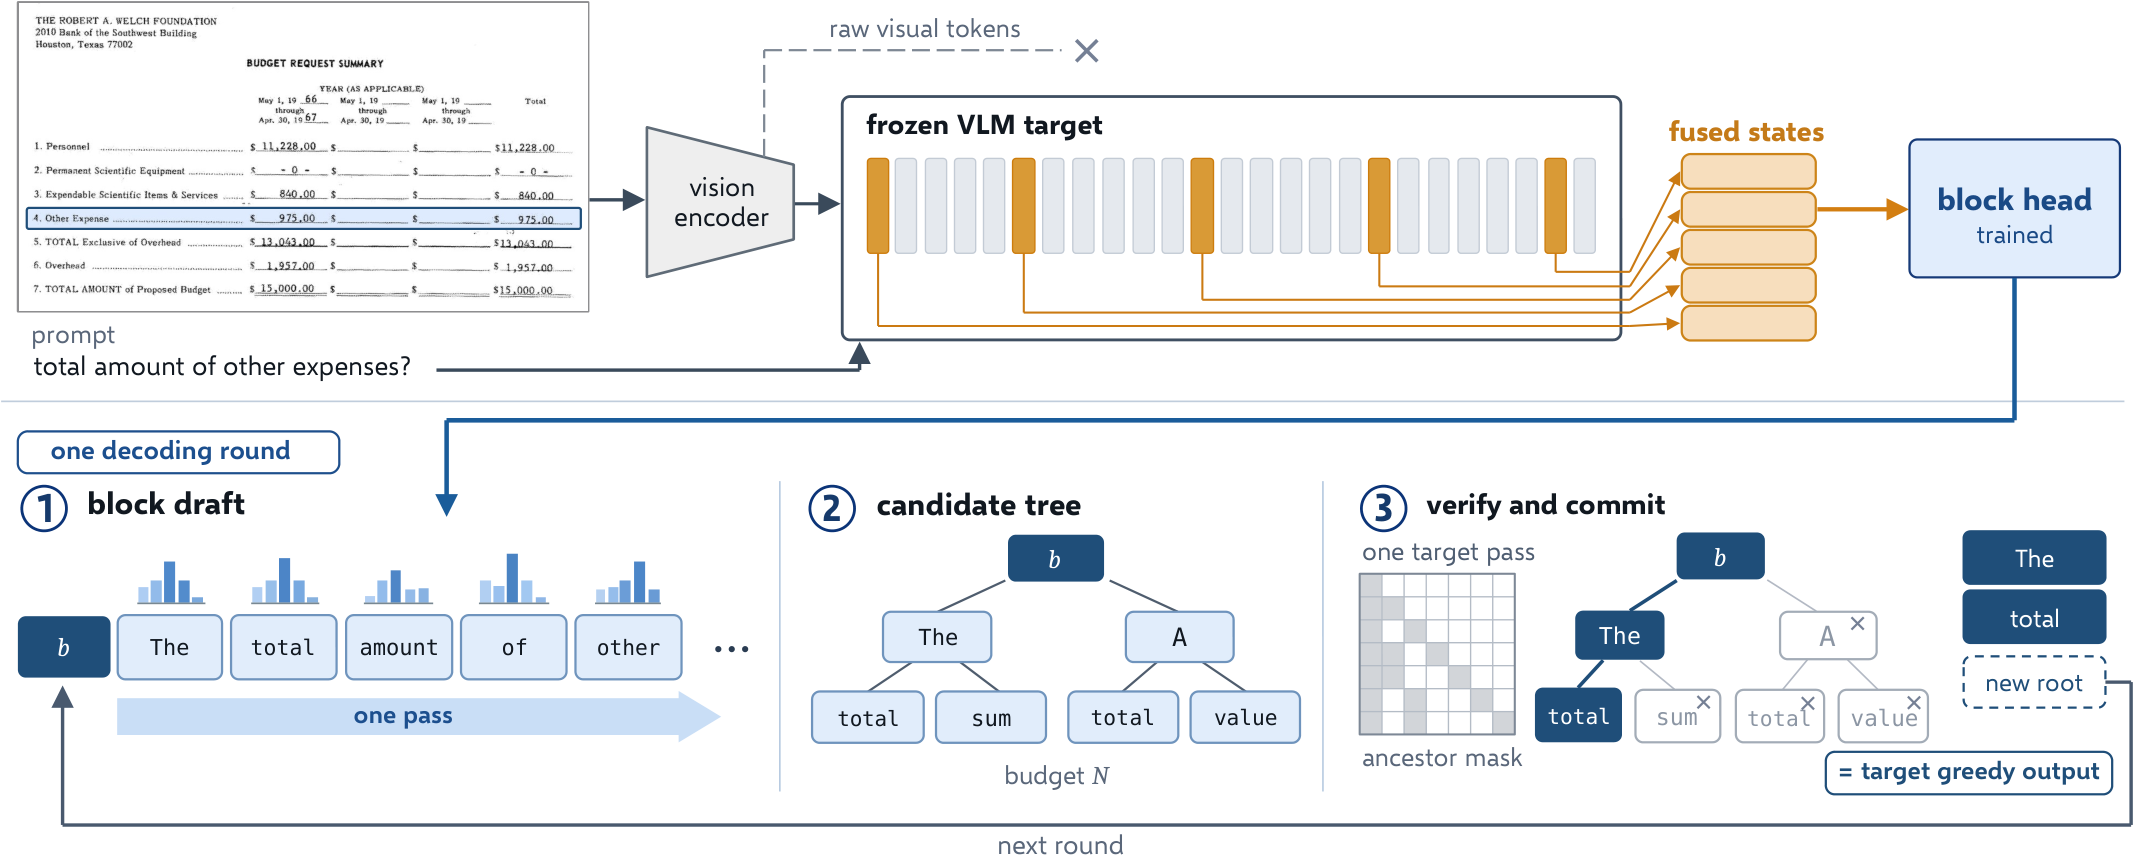
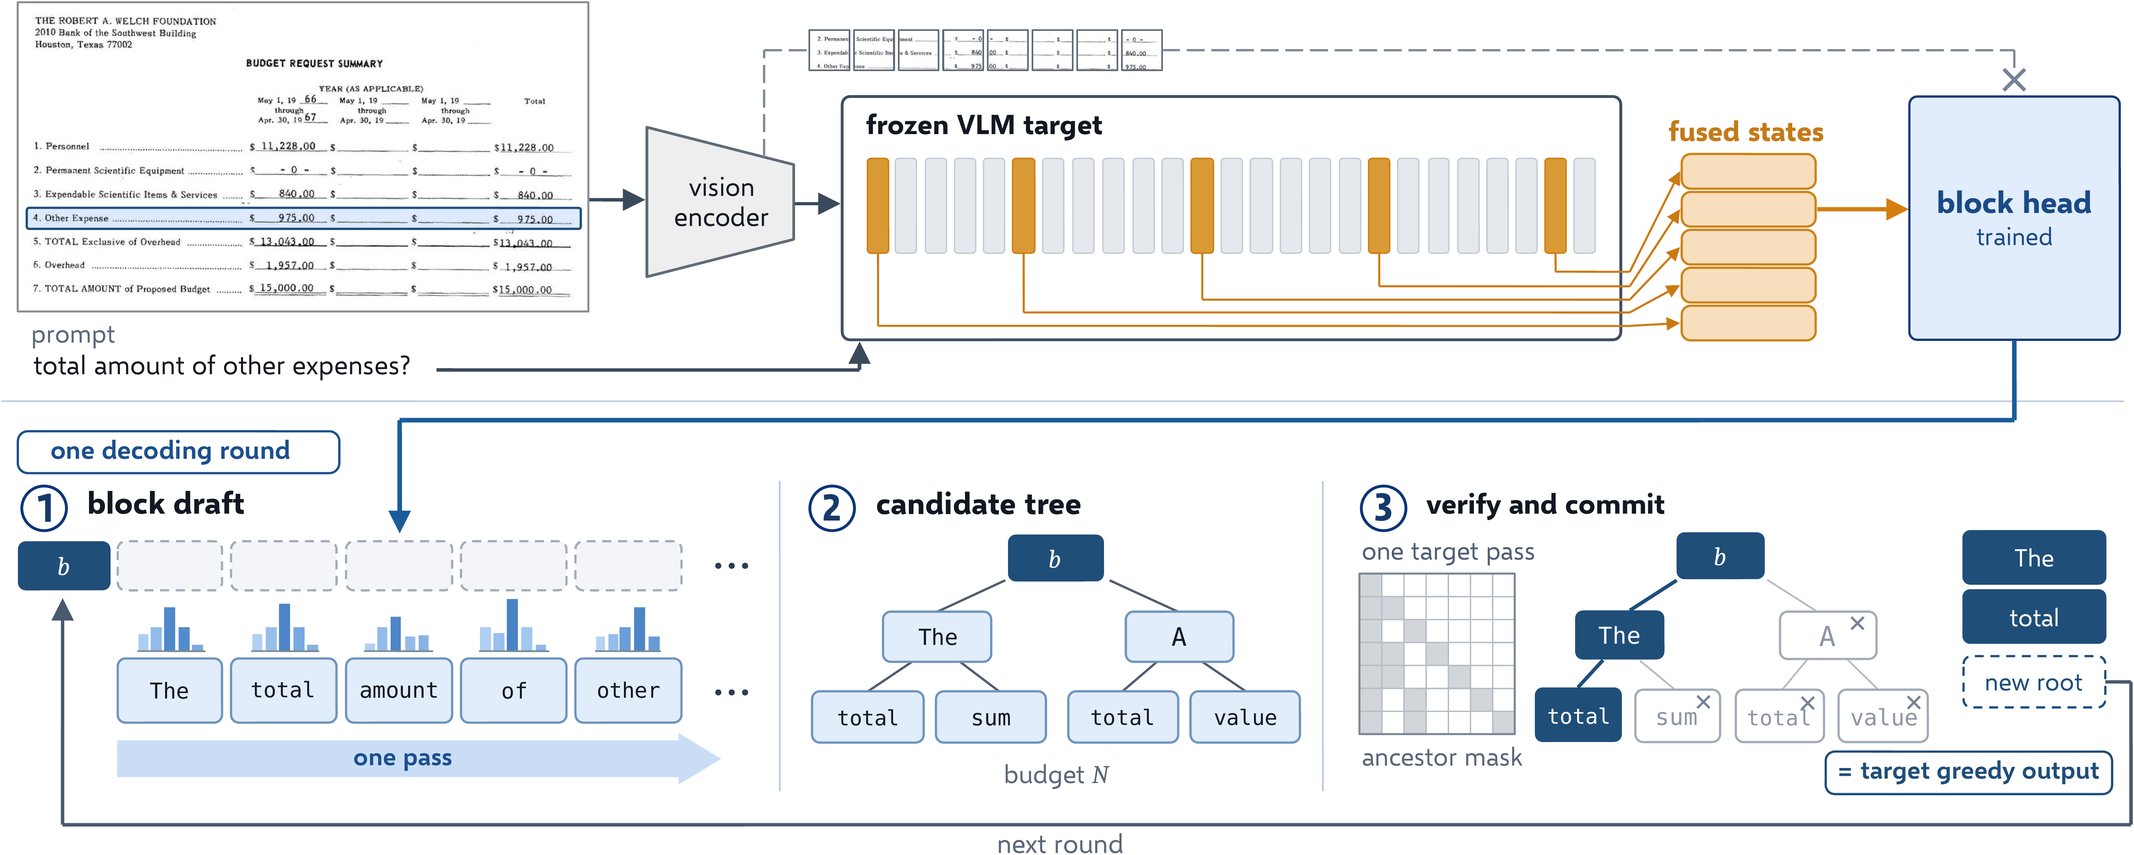
README: use the revised Figure 1 and Figure 2

diff --git a/README.md b/README.md
@@ -39,7 +39,7 @@ Grounded workloads reward this most. When a model reads a document or a chart, m
 <img src="assets/teaser.png" width="70%" alt="On a document page the image pins the answer and one draft pass commits the whole block; on open captioning the same pass commits only a short prefix" />
 </div>
 
-<div align="center"><em>On a document page the image pins the answer, entropy is low, and one draft pass commits the entire block. On open captioning many continuations are admissible, entropy is high, and the same pass commits only a short prefix.</em></div>
+<div align="center"><em>On a document page the image pins the answer and one draft pass commits the entire block. On open captioning many continuations are admissible, and the same pass commits only a short prefix.</em></div>
 
 One relation organizes the results. Accepted length is set by the target's next-token entropy,
 
